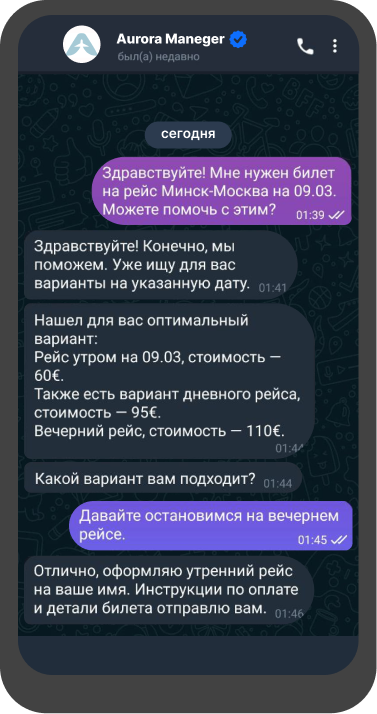
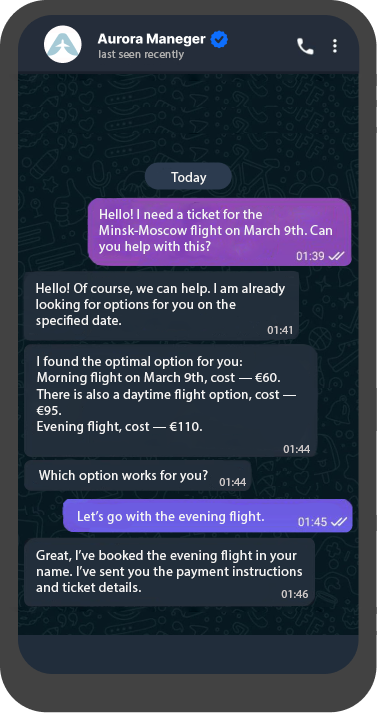
full

diff --git a/index.html b/index.html
@@ -19,7 +19,7 @@
 
   gtag('config', 'AW-16534498703');
 </script>
-    <!-- Event snippet for Просмотр страницы conversion page -->
+    <!-- Event snippet for Page View conversion page -->
 <script>
   gtag('event', 'conversion', {
       'send_to': 'AW-16534498703/pDZRCKrS3acZEI_bocw9',
@@ -40,12 +40,12 @@
                     <img class="logo__image" src="images/logo.png" alt="logo">
                 </a>
                 <nav id="main-nav" class="navi header__navi">
-                    <a class="navi__link" href="#home">Главная</a>
-                    <a class="navi__link" href="#about-us">О нас</a>
-                    <a class="navi__link" href="#our-services">Наши преймущества</a>
-                    <a class="navi__link" href="#support">Соц. Сети</a>
+                    <a class="navi__link" href="#home">Home</a>
+                    <a class="navi__link" href="#about-us">About Us</a>
+                    <a class="navi__link" href="#our-services">Our Advantages</a>
+                    <a class="navi__link" href="#support">Social Media</a>
                 </nav>
-                <a href="#support" class="btn btn--sm header__btn">КОНТАКТ</a>
+                <a href="#support" class="btn btn--sm header__btn">CONTACT</a>
 
                 <button class="toggle-menu header__toggle-menu js-toggle-menu" data-menu="#main-nav"><span></span></button>
     
@@ -53,10 +53,9 @@
 
             <div class="header__main">
                 <div class="header__main-left section-main">
-                    <h1 class="section-main__subtitle">Авиабилеты <br>Минск - Шереметьево</h1>
-                    <p class="section-main__text">Удобный сервис для покупки билетов без использования
-                        вами российских платежных систем.</p>
-                    <a href="https://t.me/aurora_bilety" class="btn btn--secondary">НАПИСАТЬ</a>
+                    <h1 class="section-main__subtitle">Air Tickets <br>Minsk - Sheremetyevo</h1>
+                    <p class="section-main__text">A convenient service for purchasing tickets without using Russian payment systems.</p>
+                    <a href="https://t.me/aurora_bilety" class="btn btn--secondary">WRITE TO US</a>
                 </div>
                 <div class="header__main-right">
                     <img class="header__main-image" src="images/hero.png" alt="">
@@ -76,17 +75,11 @@
                     </div>
                 </div>
                 <div class="col">
-                    <!-- <div class="sect-about-us__body"> -->
-                        <div class="section-main">
-                            <h2 class="section-main__title">О СЕРВИСЕ</h2>
-                            <h3 class="section-main__subtitle">Компания Aurora - надежная и удобная</h3>
-                            <p class="section-main__text">Мы предлагаем удобный сервис по приобретению авиабилетов
-                                Минск-Москва для граждан Украины.
-                                Наша миссия — помогать путешественникам из оккупированных
-                                территорий, облегчая процесс покупки билетов без использования ими российских платежных систем.</p>
-                            <!--<a href="#" class="btn">Learn more</a>-->
-                        </div>
-                    <!-- </div> -->
+                    <div class="section-main">
+                        <h2 class="section-main__title">ABOUT THE SERVICE</h2>
+                        <h3 class="section-main__subtitle">Aurora - Reliable and Convenient</h3>
+                        <p class="section-main__text">We offer a convenient service for purchasing air tickets from Minsk to Moscow for Ukrainian citizens. Our mission is to help travelers from occupied territories by simplifying the ticket purchasing process without using Russian payment systems.</p>
+                    </div>
                 </div>
             </div>
         </div>
@@ -98,11 +91,9 @@
         <div class="container row">
             <div class="col">
                 <div class="section-main">
-                    <h2 class="section-main__title">НАШИ ПРЕЙМУЩЕСТВА</h2>
-                    <h3 class="section-main__subtitle"> Надёжность и удобство в каждом билете</h3>
-                    <p class="section-main__text">Выбирая нас, вы выбираете надежного партнера, готового обеспечить вам комфортное и беззаботное путешествие из Минска в Москву. Присоединяйтесь к числу довольных клиентов, которые уже 
-                        оценили преимущества нашего сервиса.</p>
-                <!--<a href="#" class="btn">Learn more</a>-->
+                    <h2 class="section-main__title">OUR ADVANTAGES</h2>
+                    <h3 class="section-main__subtitle">Reliability and Convenience in Every Ticket</h3>
+                    <p class="section-main__text">By choosing us, you choose a reliable partner ready to provide you with a comfortable and hassle-free journey from Minsk to Moscow. Join our satisfied clients who have already appreciated the advantages of our service.</p>
                 </div>
             </div>
             <div class="col col-md-none">
@@ -113,97 +104,55 @@
         </div>
     </section>
     <!-- our-services -->
-    <!--  -->
+
     <!-- sect-people-say -->
     <section class="sect-people-say">
-        <!-- <div class="container">
-            <img class="sect-people-say__decor" src="images/2.png" alt="">
-            <img class="sect-people-say__decor" src="images/1.png" alt="">
-            <img class="sect-people-say__decor" src="images/3.png" alt="">
-            <img class="sect-people-say__decor" src="images/4.png" alt="">
-            <img class="sect-people-say__decor" src="images/5.png" alt="">
-            <img class="sect-people-say__decor" src="images/6.png" alt="">
-            <div class="section-main sect-people-say__section-main">
-                <h2 class="section-main__title">TeStimonials</h2>
-                <h3 class="section-main__subtitle">What people say</h3> -->
-            </div>
-
-            <div class="cards">
-                <div class="splide">
-                    <div class="splide__arrows">
-                        <button class="splide__arrow splide__arrow--prev">
-                            <svg xmlns="http://www.w3.org/2000/svg" viewBox="0 0 512 512">
-                                <path d="M506.134 241.843l-.018-.019-104.504-104c-7.829-7.791-20.492-7.762-28.285.068-7.792 7.829-7.762 20.492.067 28.284L443.558 236H20c-11.046 0-20 8.954-20 20s8.954 20 20 20h423.557l-70.162 69.824c-7.829 7.792-7.859 20.455-.067 28.284 7.793 7.831 20.457 7.858 28.285.068l104.504-104 .018-.019c7.833-7.818 7.808-20.522-.001-28.314z"/>
-                            </svg>                              
-                        </button>
-                        <button class="splide__arrow splide__arrow--next">        
-                            <svg xmlns="http://www.w3.org/2000/svg" viewBox="0 0 512 512">
-                                <path d="M506.134 241.843l-.018-.019-104.504-104c-7.829-7.791-20.492-7.762-28.285.068-7.792 7.829-7.762 20.492.067 28.284L443.558 236H20c-11.046 0-20 8.954-20 20s8.954 20 20 20h423.557l-70.162 69.824c-7.829 7.792-7.859 20.455-.067 28.284 7.793 7.831 20.457 7.858 28.285.068l104.504-104 .018-.019c7.833-7.818 7.808-20.522-.001-28.314z"/>
-                            </svg>
-                        </button>
-                    </div>
-                    <div class="splide__track">
-                        <div class="splide__list">
-                            <!-- <div class="splide__slides"></div> -->
-                            <div class="splide__slide ">
-                                <div class="cards-items">
+        <div class="cards">
+            <div class="splide">
+                <div class="splide__arrows">
+                    <button class="splide__arrow splide__arrow--prev">
+                        <svg xmlns="http://www.w3.org/2000/svg" viewBox="0 0 512 512">
+                            <path d="M506.134 241.843l-.018-.019-104.504-104c-7.829-7.791-20.492-7.762-28.285.068-7.792 7.829-7.762 20.492.067 28.284L443.558 236H20c-11.046 0-20 8.954-20 20s8.954 20 20 20h423.557l-70.162 69.824c-7.829 7.792-7.859 20.455-.067 28.284 7.793 7.831 20.457 7.858 28.285.068l104.504-104 .018-.019c7.833-7.818 7.808-20.522-.001-28.314z"/>
+                        </svg>                              
+                    </button>
+                    <button class="splide__arrow splide__arrow--next">        
+                        <svg xmlns="http://www.w3.org/2000/svg" viewBox="0 0 512 512">
+                            <path d="M506.134 241.843l-.018-.019-104.504-104c-7.829-7.791-20.492-7.762-28.285.068-7.792 7.829-7.762 20.492.067 28.284L443.558 236H20c-11.046 0-20 8.954-20 20s8.954 20 20 20h423.557l-70.162 69.824c-7.829 7.792-7.859 20.455-.067 28.284 7.793 7.831 20.457 7.858 28.285.068l104.504-104 .018-.019c7.833-7.818 7.808-20.522-.001-28.314z"/>
+                        </svg>
+                    </button>
+                </div>
+                <div class="splide__track">
+                    <div class="splide__list">
+                        <div class="splide__slide ">
+                            <div class="cards-items">
+                            <div class="cards-items__text">
+                                Simple and clear. Found the ticket, helped with payment when I couldn't. Excellent work!
+                            </div>
+                            <div class="cards-items__name">Michael</div>
+                        </div>
+                        </div>
+                        <div class="splide__slide">
+                            <div class="cards-items">
+                            <div class="cards-items__text">
+                                Very convenient and fast. I paid for the ticket without problems, even though I couldn't do it through the usual ways. Superb service!
+                            </div>
+                            <div class="cards-items__name">Catherine</div>
+                        </div>
+                        </div>
+                        <div class="splide__slide">
+                            <div class="cards-items">
                                 <div class="cards-items__text">
-                                    Просто и понятно. Нашли билет, помогли с оплатой, когда я сам не смог. Великолепно работают!
+                                    Thank you so much! Everything was great: quickly found tickets and helped with processing. I'll use it again.
                                 </div>
-                                <div class="cards-items__name">Михаил</div>
-                                <!-- <div class="cards-items__stars">
-                                    <img src="/images/star.svg" alt="">
-                                    <img src="/images/star.svg" alt="">
-                                    <img src="/images/star.svg" alt="">
-                                    <img src="/images/star.svg" alt="">
-                                    <img src="/images/star.svg" alt="">
-                                </div> -->
+                                <div class="cards-items__name">Vladimir</div>
                             </div>
-                            </div>
-                            <div class="splide__slide">
-                                <div class="cards-items">
+                        </div>
+                        <div class="splide__slide">
+                            <div class="cards-items">
                                 <div class="cards-items__text">
-                                    Очень удобно и быстро. Оплатила билет без проблем, хотя не могла это сделать через обычные пути. Супер сервис!
+                                    Found the perfect option thanks to the team. Payment was easy, service is top-notch. Highly recommend!
                                 </div>
-                                <div class="cards-items__name">Екатерина</div>
-<!--                                 <div class="cards-items__stars">
-                                    <img src="/images/star.png" alt="">
-                                    <img src="/images/star.png" alt="">
-                                    <img src="/images/star.png" alt="">
-                                    <img src="/images/star.png" alt="">
-                                    <img src="/images/star.png" alt="">
-                                </div> -->
-                            </div>
-                            </div>
-                            <div class="splide__slide">
-                                <div class="cards-items">
-                                    <div class="cards-items__text">
-                                        Спасибо большое! Все понравилось: быстро нашли билеты и помогли с оформлением. Буду пользоваться ещё.
-                                    </div>
-                                    <div class="cards-items__name">Владимир</div>
-                                    <!-- <div class="cards-items__stars">
-                                        <img src="/images/star.svg" alt="">
-                                        <img src="/images/star.svg" alt="">
-                                        <img src="/images/star.svg" alt="">
-                                        <img src="/images/star.svg" alt="">
-                                        <img src="/images/star.svg" alt="">
-                                    </div> -->
-                                </div>
-                            </div>
-                            <div class="splide__slide">
-                                <div class="cards-items">
-                                    <div class="cards-items__text">
-                                        Нашла идеальный вариант благодаря ребятам. Оплата прошла легко, обслуживание на уровне. Рекомендую всем! 
-                                    </div>
-                                    <div class="cards-items__name">Анна</div>
-                                    <!-- <div class="cards-items__stars">
-                                        <img src="/images/star.svg" alt="">
-                                        <img src="/images/star.svg" alt="">
-                                        <img src="/images/star.svg" alt="">
-                                        <img src="/images/star.svg" alt="">
-                                        <img src="/images/star.svg" alt="">
-                                    </div> -->
-                                </div>
+                                <div class="cards-items__name">Anna</div>
                             </div>
                         </div>
                     </div>
@@ -218,10 +167,9 @@
         <div class="container row">
             <div class="col">
                 <div class="section-main">
-                    <h2 class="section-main__title">Наши Соц. Сети</h2>
-                    <h3 class="section-main__subtitle">Свяжитесь с нами!</h3>
-                    <p class="section-main__text" style="font-size: larger;">Мы всегда рады общению с нашими клиентами и 
-                        готовы ответить на любые ваши вопросы.</p>
+                    <h2 class="section-main__title">Our Social Media</h2>
+                    <h3 class="section-main__subtitle">Get in Touch with Us!</h3>
+                    <p class="section-main__text" style="font-size: larger;">We are always happy to communicate with our clients and are ready to answer any of your questions.</p>
 
                    <!-- Telegram -->
                    <a href="https://t.me/aurora_bilety" class="social-media-button">
@@ -237,30 +185,10 @@
                     <a href="https://viber.click/48577423769" class="social-media-button">
                      <img src="viber.png" alt="Viber" style="width: 40px; height: 40px;">
                     </a>
-                    <a href="https://t.me/aurora_bilety" class="btn btn--secondary">НАПИСАТЬ</a>
+                    <a href="https://t.me/aurora_bilety" class="btn btn--secondary">WRITE TO US</a>
 
-    
                 </div>
             </div>
-            <!-- <div class="col">
-                <form action="#" class="form sect-contact__form">
-                    <div class="form__inner">
-                        <div class="form__field">
-                            <input class="form__input" type="text" id="f1">
-                            <label class="form__label" for="f1">ФИО</label>
-                        </div>
-                        <div class="form__field">
-                            <input class="form__input" type="email" id="f2">
-                            <label class="form__label" for="f2">Mail</label>
-                        </div>
-                        <div class="form__field form__field--textarea">
-                            <textarea class="form__input" cols="20" rows="6" id="f3"></textarea>
-                            <label class="form__label" for="f3">Комментарий</label>
-                        </div>
-                         <button class="btn" type="submit">Submit</button> 
-                    </div>
-                </form> -->
-            <!-- </div> --> 
         </div>
     </section>
     <!-- sect-contact -->
@@ -272,45 +200,17 @@
                     <img class="logo__image" src="images/logo.png" alt="logo">
                 </a>
                 <nav class="navi footer__navi">
-                    <a class="navi__link" href="#home">Главная</a>
-                    <a class="navi__link" href="#about-us">О нас</a>
-                    <a class="navi__link" href="#our-services">Наши преймущества</a>
-                    <a class="navi__link" href="#support">Соц. Сети</a>
+                    <a class="navi__link" href="#home">Home</a>
+                    <a class="navi__link" href="#about-us">About Us</a>
+                    <a class="navi__link" href="#our-services">Our Advantages</a>
+                    <a class="navi__link" href="#support">Social Media</a>
                 </nav>
-                <!-- <div class="social">
-                    <a class="social__item" href="#">
-                        <img src="/images/facebook.svg" alt="fb">
-                    </a>
-                    <a class="social__item" href="#">
-                        <img src="/images/yt.svg" alt="yt">
-                    </a>
-                    <a class="social__item" href="#">
-                        <img src="/images/twitter.svg" alt="twitter">
-                    </a>
-                    <a class="social__item" href="#">
-                        <img src="/images/linkedin.svg" alt="linkedin">
-                    </a>
-                </div> -->
             </div>
         </div>
         <div class="container">
-            <p class="copy">Aurora © Donetsk 2024</p>
+            <p class="copy">Aurora © London 2024</p>
         </div>
     </footer>
-<!-- <svg 
- xmlns="http://www.w3.org/2000/svg"
- xmlns:xlink="http://www.w3.org/1999/xlink"
- width="0" height="0"
- style="position: absolute;"
- >
- <defs>
-<clipPath id="myClip">
-<path fill-rule="evenodd"  fill="rgb(216, 216, 216)"
-    style="transform: translate(66px, 84px);"
- d="M203.904,4.547 C282.558,18.427 349.725,65.672 418.687,104.129 C464.092,129.449 512.552,142.156 561.570,158.758 C686.191,200.967 813.581,274.957 804.473,410.769 C796.884,523.952 685.764,649.171 550.203,659.566 C503.316,663.159 462.214,650.251 425.321,629.609 C403.169,617.221 381.152,596.697 352.216,596.019 C321.697,595.308 290.528,616.241 264.307,629.708 C225.285,649.765 184.178,670.700 140.196,676.724 C39.285,690.548 9.859,622.409 16.619,533.971 C19.908,490.978 29.397,448.775 35.260,406.119 C43.576,345.624 30.000,293.305 14.438,235.100 C0.578,183.266 -8.725,125.605 15.945,77.912 C43.937,23.795 110.065,-2.133 171.027,0.833 C182.222,1.377 193.168,2.650 203.904,4.547 "/>
-</clipPath>
-</defs>
-</svg> -->
 
 <script src="https://cdn.jsdelivr.net/npm/@splidejs/splide@latest/dist/js/splide.min.js"></script>
 <script src="js/app.js"></script>
